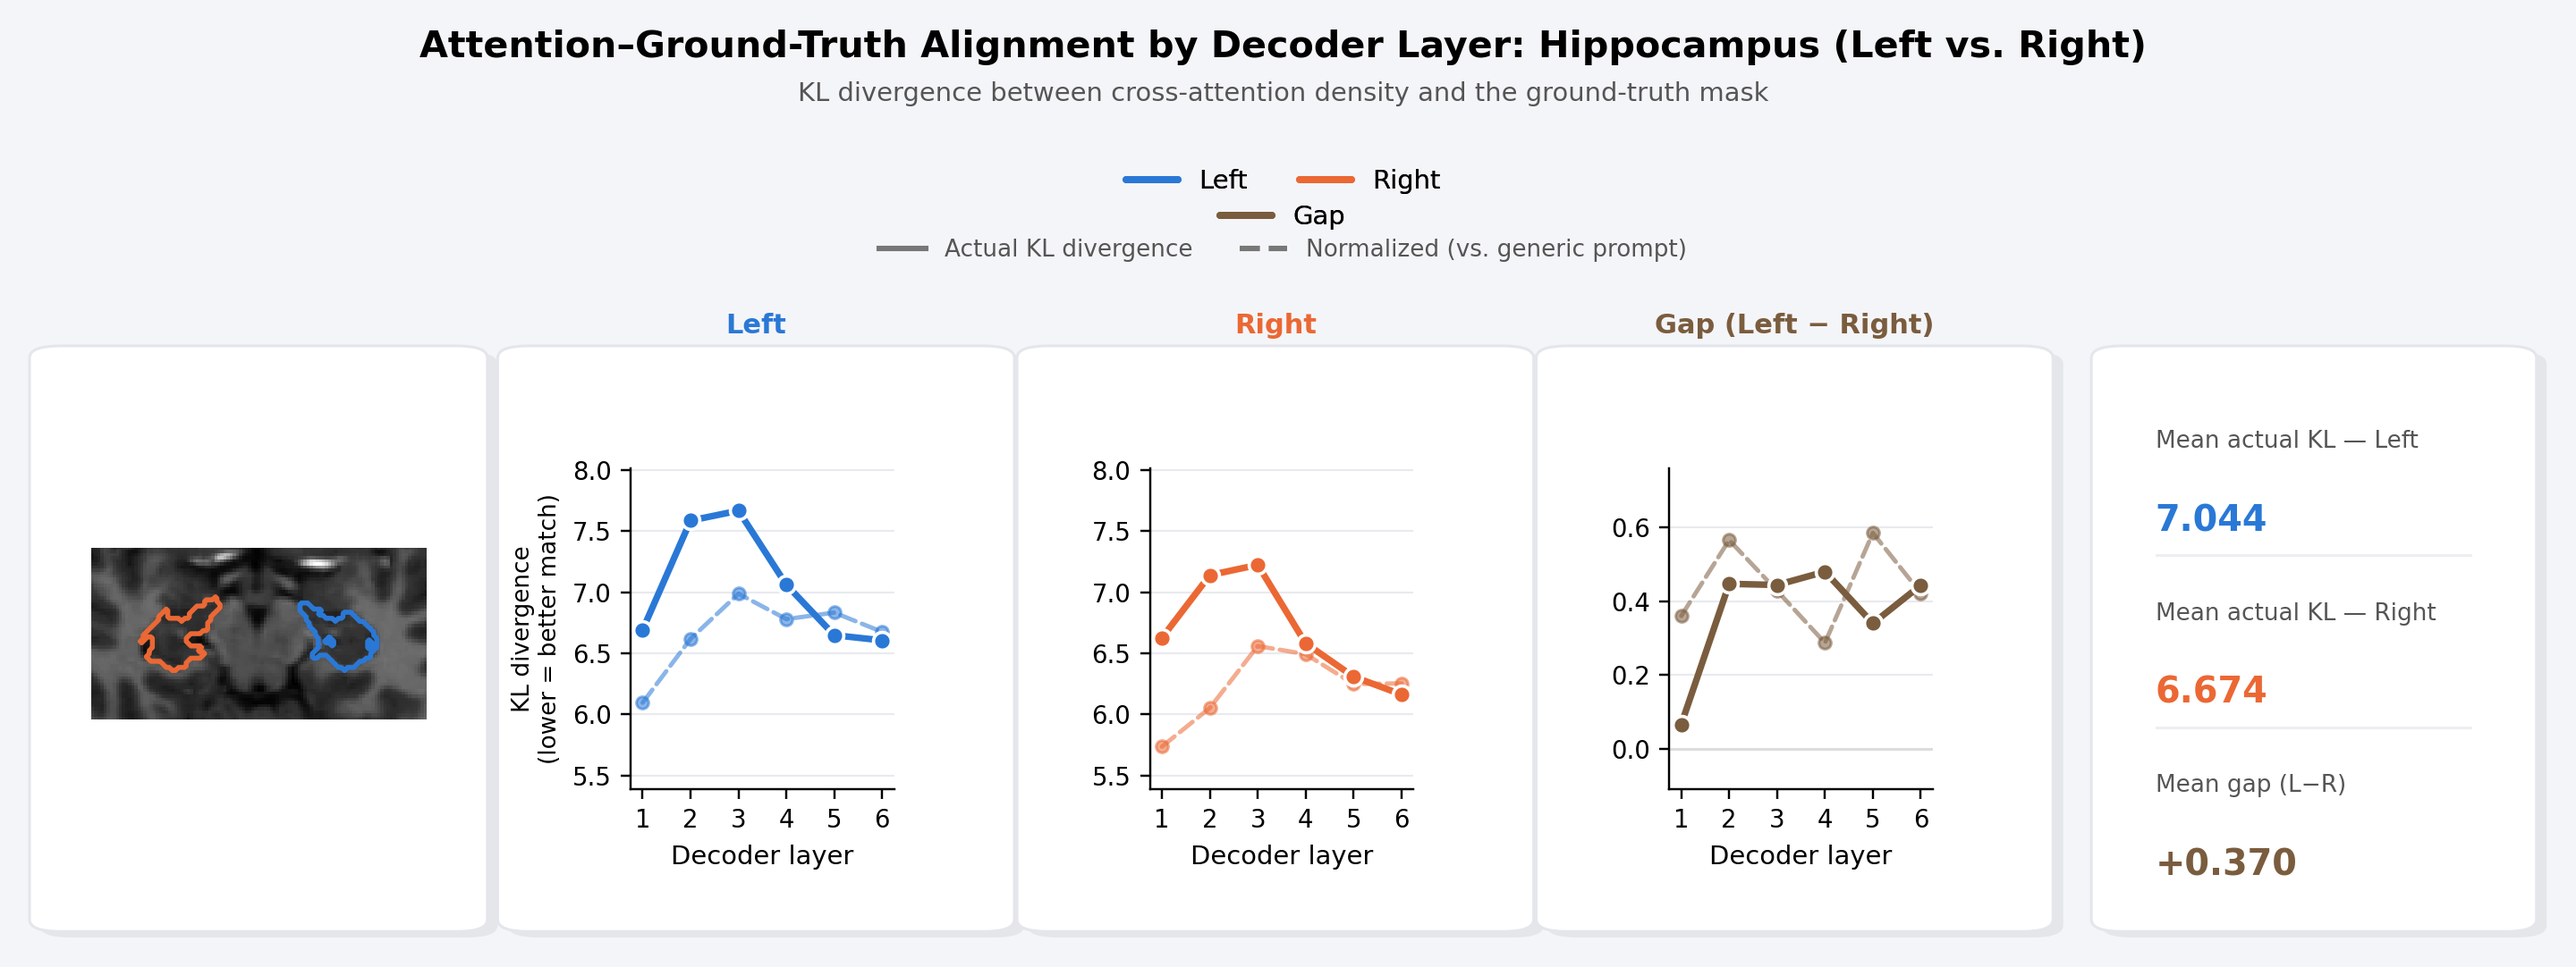
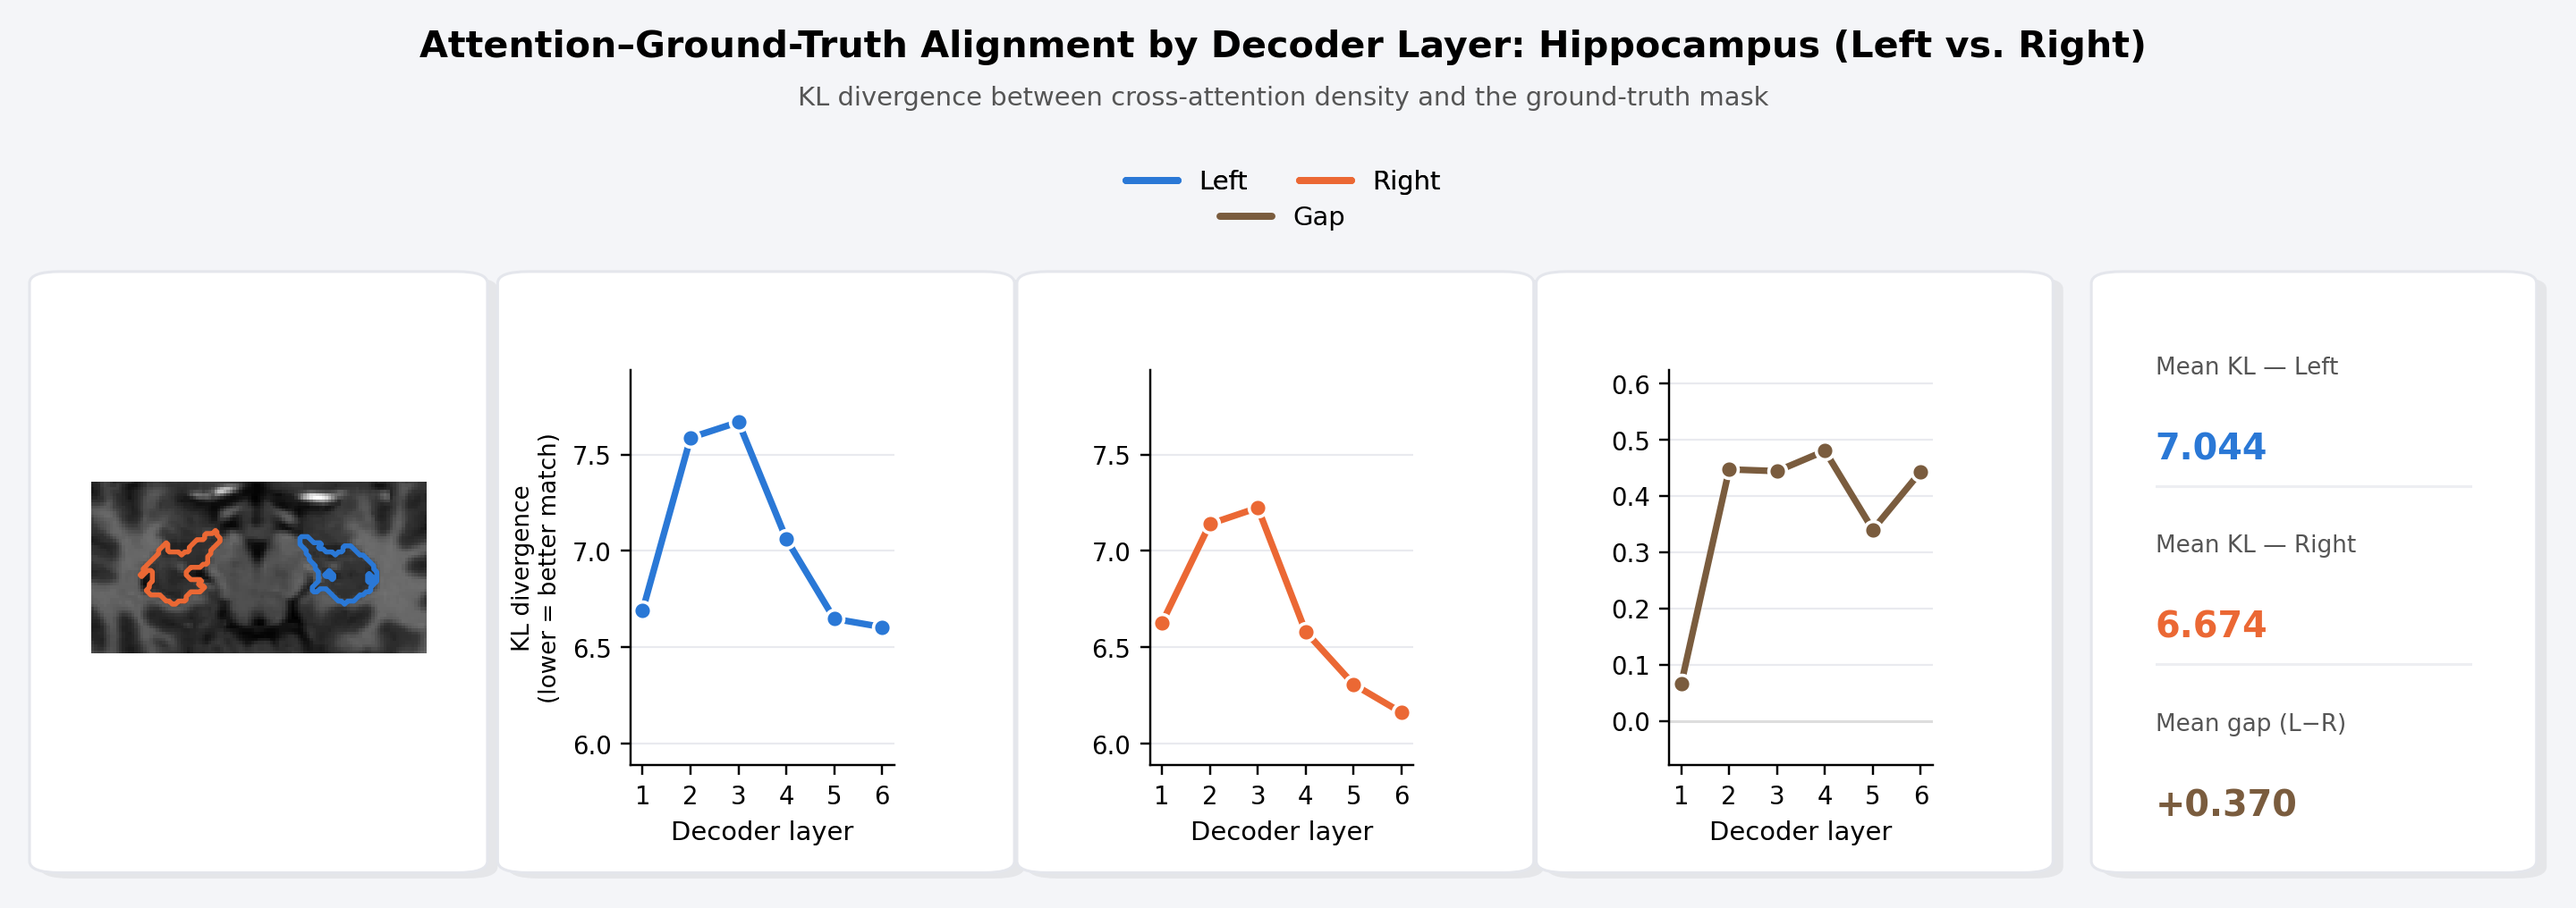
Row18 explainer: drop normalized KL and redundant Left/Right panel titles
Removed the normalized-vs-generic-prompt dashed line and its style
legend -- only the actual, real measured KL divergence is plotted now.
Also removed the bold "Left"/"Right"/"Gap" text sitting above each mini
chart, since the top color legend and the line color already identify
which chart is which; the word was appearing three times per panel.

diff --git a/scripts/make_rows17_21_figures.py b/scripts/make_rows17_21_figures.py
@@ -554,20 +554,18 @@ def figure_row18_explainer(subj, core, kl_left, kl_right, out_dir):
     dfl = pd.DataFrame(kl_left).sort_values("layer")
     dfr = pd.DataFrame(kl_right).sort_values("layer")
     col_actual = "kl_divergence"
-    col_norm = "kl_divergence_vs_generic_normalized"
     mean_l, mean_r = float(dfl[col_actual].mean()), float(dfr[col_actual].mean())
     mean_gap = mean_l - mean_r
     gap_actual_by_layer = dfl[col_actual].values - dfr[col_actual].values
-    gap_norm_by_layer = dfl[col_norm].values - dfr[col_norm].values
 
     GAP_C = "#7a5c3e"  # darker, warm neutral -- reads clearly against the light page/card background
 
     PAGE_BG = "#f4f5f8"
-    fig = plt.figure(figsize=(13.0, 5.1), dpi=220)
+    fig = plt.figure(figsize=(13.0, 4.9), dpi=220)
     fig.patch.set_facecolor(PAGE_BG)
-    fig.text(0.5, 0.960, f"Attention–Ground-Truth Alignment by Decoder Layer: {core.title()} (Left vs. Right)",
+    fig.text(0.5, 0.955, f"Attention–Ground-Truth Alignment by Decoder Layer: {core.title()} (Left vs. Right)",
               ha="center", fontsize=13.5, fontweight="bold", color=PAPER_INK)
-    fig.text(0.5, 0.916,
+    fig.text(0.5, 0.905,
               "KL divergence between cross-attention density and the ground-truth mask",
               ha="center", fontsize=9.5, color=PAPER_MUTED)
 
@@ -575,19 +573,13 @@ def figure_row18_explainer(subj, core, kl_left, kl_right, out_dir):
     lr_handles = [Line2D([0], [0], color=BLUE, lw=2.6, label="Left", solid_capstyle="round"),
                   Line2D([0], [0], color=ORANGE, lw=2.6, label="Right", solid_capstyle="round")]
     gap_handle = [Line2D([0], [0], color=GAP_C, lw=2.6, label="Gap", solid_capstyle="round")]
-    leg1 = fig.legend(handles=lr_handles, loc="upper center", bbox_to_anchor=(0.5, 0.872), ncol=2,
+    leg1 = fig.legend(handles=lr_handles, loc="upper center", bbox_to_anchor=(0.5, 0.862), ncol=2,
                        frameon=False, fontsize=9.5)
     fig.add_artist(leg1)
-    leg2 = fig.legend(handles=gap_handle, loc="upper center", bbox_to_anchor=(0.5, 0.836), ncol=1,
-                       frameon=False, fontsize=9.5)
-    fig.add_artist(leg2)
+    fig.legend(handles=gap_handle, loc="upper center", bbox_to_anchor=(0.5, 0.825), ncol=1,
+               frameon=False, fontsize=9.5)
 
-    style_handles = [Line2D([0], [0], color="#777777", lw=2.0, linestyle="-", label="Actual KL divergence"),
-                      Line2D([0], [0], color="#777777", lw=2.0, linestyle="--", label="Normalized (vs. generic prompt)")]
-    fig.legend(handles=style_handles, loc="upper center", bbox_to_anchor=(0.5, 0.800), ncol=2,
-               frameon=False, fontsize=8.6, labelcolor=PAPER_MUTED)
-
-    CARD_Y, CARD_H = 0.10, 0.56
+    CARD_Y, CARD_H = 0.12, 0.60
 
     # --- panel (a): anatomical context, on its own card ---------------------------------------------
     card_a = (0.022, CARD_Y, 0.155, CARD_H)
@@ -602,44 +594,38 @@ def figure_row18_explainer(subj, core, kl_left, kl_right, out_dir):
     if gt_rc.any():
         ax_a.contour(gt_rc, levels=[0.5], colors=ORANGE, linewidths=1.8)
 
-    # --- panels (b1)/(b2)/(b3): Left, Right, and Gap each as their own small chart, actual (solid) -----
-    # and normalized (dashed) plotted together so the reader always sees the real measured number,
-    # not just the generic-prompt-normalized ratio.
-    y_lo = min(dfl[col_actual].min(), dfr[col_actual].min(), dfl[col_norm].min(), dfr[col_norm].min())
-    y_hi = max(dfl[col_actual].max(), dfr[col_actual].max(), dfl[col_norm].max(), dfr[col_norm].max())
+    # --- panels (b1)/(b2)/(b3): Left, Right, and Gap each as their own small chart of the actual,
+    # real measured KL divergence -- no normalized/baseline variant, no repeated "Left"/"Right"
+    # panel headers (the top legend and the line color already say which is which).
+    y_lo = min(dfl[col_actual].min(), dfr[col_actual].min())
+    y_hi = max(dfl[col_actual].max(), dfr[col_actual].max())
     y_pad = (y_hi - y_lo) * 0.18 or 0.05
 
-    def _mini_chart(x0, layer, actual_vals, norm_vals, color, title):
+    def _mini_chart(x0, layer, actual_vals, color):
         card = (x0, CARD_Y, 0.178, CARD_H)
         _rounded_card(fig, card, pad_in=0.012)
-        ax = fig.add_axes([card[0] + 0.040, card[1] + 0.13, card[2] - 0.075, card[3] - 0.24])
+        ax = fig.add_axes([card[0] + 0.040, card[1] + 0.10, card[2] - 0.075, card[3] - 0.19])
         _paper_axes_style(ax)
         ax.plot(layer, actual_vals, "-", color=color, linewidth=2.4, zorder=3, solid_capstyle="round")
         ax.scatter(layer, actual_vals, s=42, color=color, edgecolor="white", linewidth=1.2, zorder=4)
-        ax.plot(layer, norm_vals, "--", color=color, linewidth=1.6, alpha=0.55, zorder=2, dash_capstyle="round")
-        ax.scatter(layer, norm_vals, s=20, color=color, alpha=0.55, zorder=2)
         ax.set_xlabel("Decoder layer", fontsize=9.5, color=PAPER_INK)
         ax.yaxis.grid(True, color="#e9eaef", linewidth=0.7, zorder=0)
         ax.set_axisbelow(True)
         ax.set_facecolor("white")
         ax.set_xticks(list(layer))
-        fig.text(card[0] + card[2] / 2, card[1] + card[3] + 0.025, title, ha="center", fontsize=10,
-                  fontweight="bold", color=color)
         return ax
 
-    ax_left = _mini_chart(0.205, dfl.layer, dfl[col_actual], dfl[col_norm], BLUE, "Left")
+    ax_left = _mini_chart(0.205, dfl.layer, dfl[col_actual], BLUE)
     ax_left.set_ylim(y_lo - y_pad, y_hi + y_pad)
     ax_left.set_ylabel("KL divergence\n(lower = better match)", fontsize=8.6, color=PAPER_INK)
 
-    ax_right = _mini_chart(0.408, dfr.layer, dfr[col_actual], dfr[col_norm], ORANGE, "Right")
+    ax_right = _mini_chart(0.408, dfr.layer, dfr[col_actual], ORANGE)
     ax_right.set_ylim(y_lo - y_pad, y_hi + y_pad)
 
-    ax_gap = _mini_chart(0.611, dfl.layer, gap_actual_by_layer, gap_norm_by_layer, GAP_C, "Gap (Left − Right)")
+    ax_gap = _mini_chart(0.611, dfl.layer, gap_actual_by_layer, GAP_C)
     ax_gap.axhline(0, color=PAPER_GRID, linewidth=1.0, zorder=1)
-    g_lo = min(gap_actual_by_layer.min(), gap_norm_by_layer.min())
-    g_hi = max(gap_actual_by_layer.max(), gap_norm_by_layer.max())
-    g_pad = (max(abs(g_lo), abs(g_hi)) * 0.3) or 0.02
-    ax_gap.set_ylim(g_lo - g_pad, g_hi + g_pad)
+    g_pad = (max(abs(gap_actual_by_layer.min()), abs(gap_actual_by_layer.max())) * 0.3) or 0.02
+    ax_gap.set_ylim(gap_actual_by_layer.min() - g_pad, gap_actual_by_layer.max() + g_pad)
 
     # --- panel (c): compact statistics card, not a prose sentence ------------------------------------
     card_c = (0.828, CARD_Y, 0.15, CARD_H)
@@ -647,8 +633,8 @@ def figure_row18_explainer(subj, core, kl_left, kl_right, out_dir):
     ax_c = fig.add_axes([card_c[0] + 0.013, card_c[1] + 0.02, card_c[2] - 0.026, card_c[3] - 0.04])
     ax_c.axis("off")
     stat_rows = [
-        ("Mean actual KL — Left", f"{mean_l:.3f}", BLUE),
-        ("Mean actual KL — Right", f"{mean_r:.3f}", ORANGE),
+        ("Mean KL — Left", f"{mean_l:.3f}", BLUE),
+        ("Mean KL — Right", f"{mean_r:.3f}", ORANGE),
         ("Mean gap (L−R)", f"{mean_gap:+.3f}", GAP_C),
     ]
     y0 = 0.90
